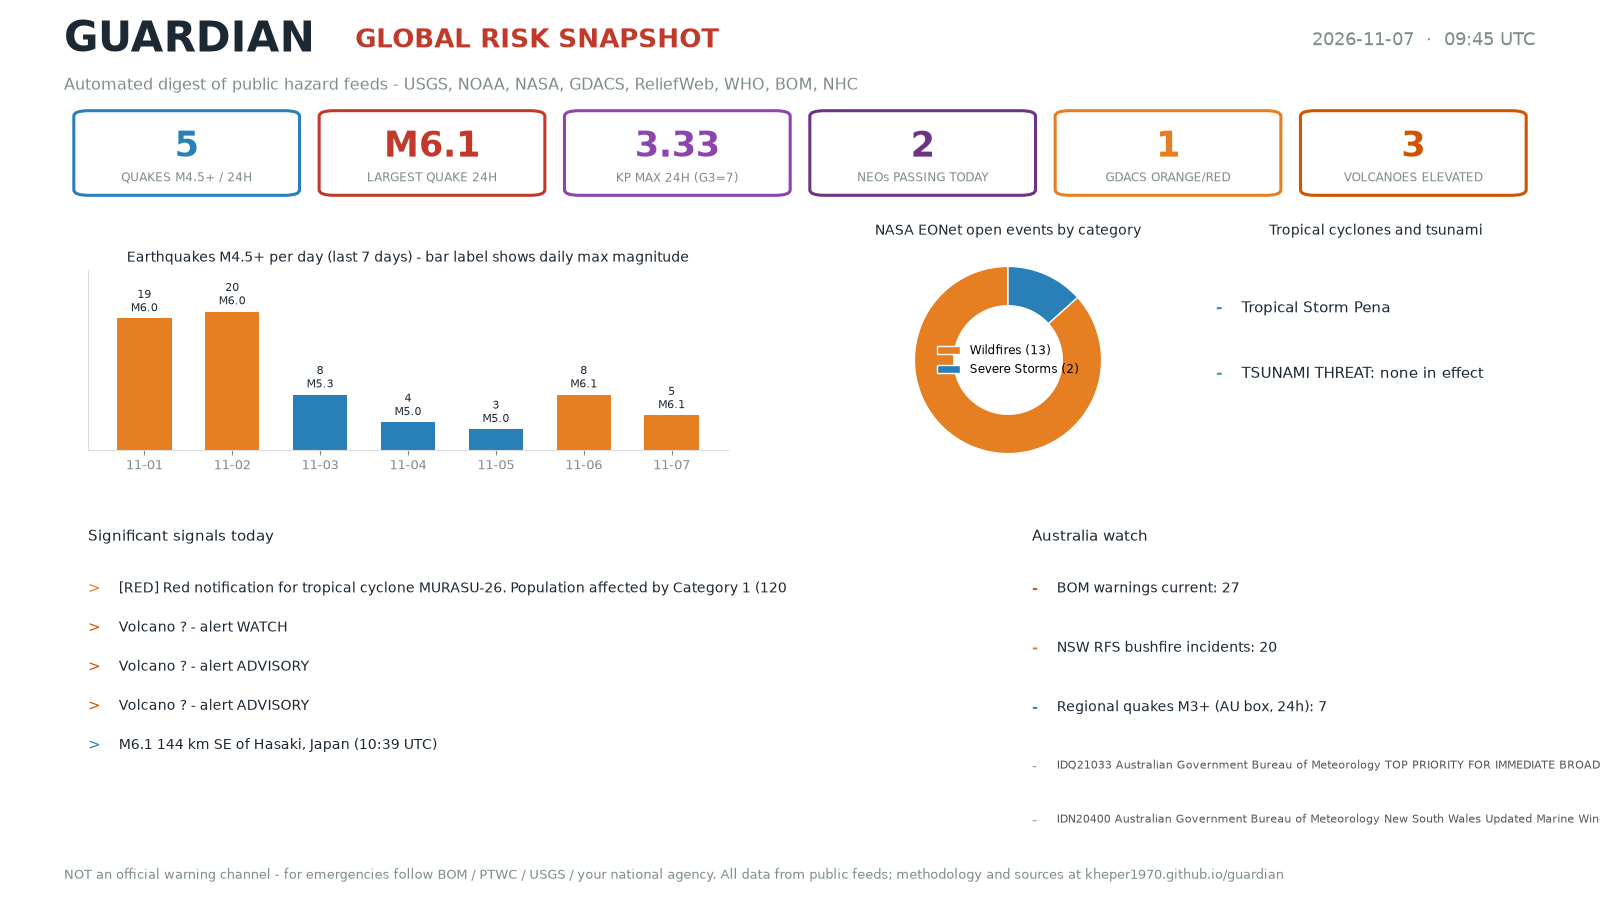
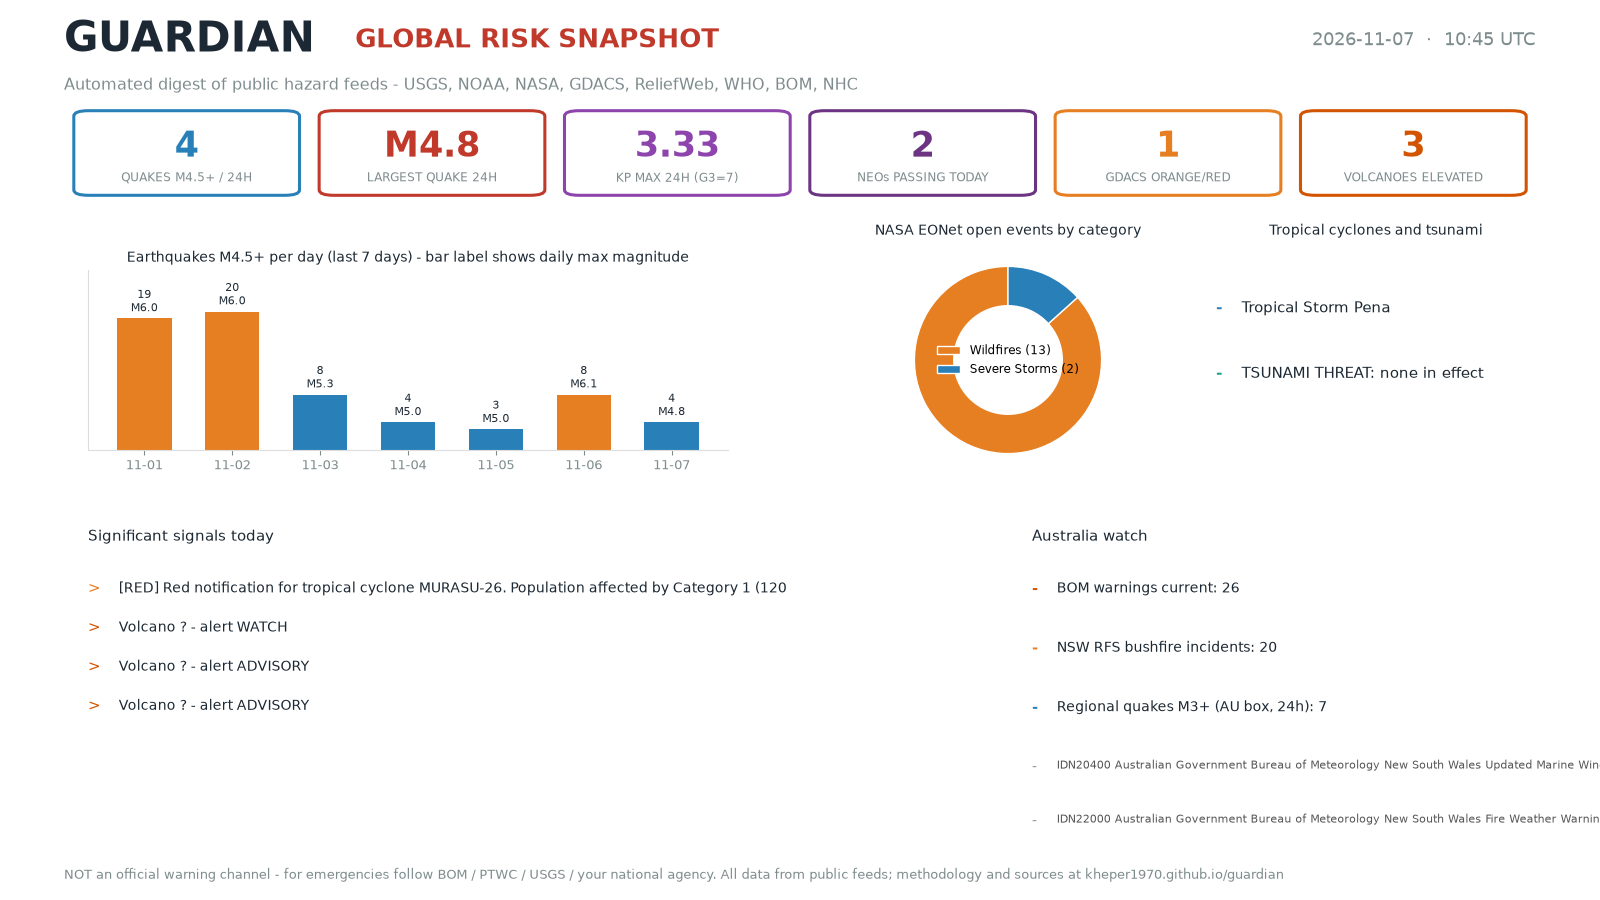
Automated update 2026-11-07T10:50Z

diff --git a/briefing/briefing_2026-11-07.html b/briefing/briefing_2026-11-07.html
@@ -121,12 +121,38 @@ or your national emergency agency.</p>
 <ul>
 <li>Great Sitkin [ORANGE/WATCH] (avo)</li>
 <li>Ahyi Seamount [YELLOW/ADVISORY] (nmi)</li>
-<li>
-<p>Kilauea [YELLOW/ADVISORY] (hvo)</p>
-</li>
-<li>
-<p>GVP weekly report unavailable: HTTP Error 429: Too Many Requests</p>
-</li>
+<li>Kilauea [YELLOW/ADVISORY] (hvo)</li>
+</ul>
+<h2>Volcanoes (Smithsonian GVP weekly, week of 15 October-21 October 2026)</h2>
+<ul>
+<li>27 volcanoes reported active; 3 with new activity</li>
+<li>Krakatau (Indonesia) - New Eruptive Activity <strong>[NEW ACTIVITY]</strong></li>
+<li>Nevados de Chillán (Chile) - New Eruptive Activity <strong>[NEW ACTIVITY]</strong></li>
+<li>Whakaari/White Island (New Zealand) - New Eruptive Activity <strong>[NEW ACTIVITY]</strong></li>
+<li>Ahyi (United States) - Continuing Eruptive Activity</li>
+<li>Aira (Japan) - Continuing Eruptive Activity</li>
+<li>Great Sitkin (United States) - Continuing Eruptive Activity</li>
+<li>Ibu (Indonesia) - Continuing Eruptive Activity</li>
+<li>Kanlaon (Philippines) - Continuing Eruptive Activity</li>
+<li>Karangetang (Indonesia) - Continuing Eruptive Activity</li>
+<li>Kīlauea (United States) - Continuing Eruptive Activity</li>
+<li>Lewotolok (Indonesia) - Continuing Eruptive Activity</li>
+<li>Marapi (Indonesia) - Continuing Eruptive Activity</li>
+<li>Mayon (Philippines) - Continuing Eruptive Activity</li>
+<li>Merapi (Indonesia) - Continuing Eruptive Activity</li>
+<li>Puracé (Colombia) - Continuing Eruptive Activity</li>
+<li>Reventador (Ecuador) - Continuing Eruptive Activity</li>
+<li>Sabancaya (Peru) - Continuing Eruptive Activity</li>
+<li>Sangay (Ecuador) - Continuing Eruptive Activity</li>
+<li>Semeru (Indonesia) - Continuing Eruptive Activity</li>
+<li>Sheveluch (Russia) - Continuing Eruptive Activity</li>
+<li>Sinabung (Indonesia) - Continuing Eruptive Activity</li>
+<li>Suwanosejima (Japan) - Continuing Eruptive Activity</li>
+<li>Taal (Philippines) - Continuing Eruptive Activity</li>
+<li>Telica (Nicaragua) - Continuing Eruptive Activity</li>
+<li>Tofua (Tonga) - Continuing Eruptive Activity</li>
+<li>Tokachidake (Japan) - Continuing Eruptive Activity</li>
+<li>St. Helens (United States) - Other Observations</li>
 </ul>
 <h2>NASA EONet open events (wildfires, storms, volcanoes)</h2>
 <ul>
@@ -172,6 +198,7 @@ or your national emergency agency.</p>
 </ul>
 <h2>Famine watch (UN News + ReliefWeb keywords)</h2>
 <ul>
+<li>[UN News] Children at risk as war zone attacks on water and sanitation more than triple (Thu, 05 Nov 2026)</li>
 <li>[ReliefWeb] Haiti: Violence and displacement in the commune of Kenscoff – Situation Report No. 3 (as of 27 October 2026) (Fri, 06 Nov 2026)</li>
 <li>[ReliefWeb] Haiti: Haïti : Violences et déplacements dans la commune de Kenscoff – Rapport de situation n° 3 (au 27 octobre 2026) (Fri, 06 Nov 2026)</li>
 <li>[ReliefWeb] Somalia: Radio Ergo Weekly Feedback Report, Issued: 6 Nov 2026 (Fri, 06 Nov 2026)</li>
@@ -179,6 +206,8 @@ or your national emergency agency.</p>
 </ul>
 <h2>Armed conflict watch (UN News + ReliefWeb keywords)</h2>
 <ul>
+<li>[UN News] World News in Brief: Children killed in Myanmar strike, new violence flares in Mozambique, an Internet affordability milestone (Tue, 03 Nov 2026)</li>
+<li>[UN News] Ukraine: WFP provides hot meals to Oleshky evacuees as UN pushes to restore power before winter (Mon, 02 Nov 2026)</li>
 <li>[ReliefWeb] Children's Hunger Rising as Southern Lebanon Farms Struggle to Recover (Fri, 06 Nov 2026)</li>
 </ul>
 <h2>Australia watch (ABC News, NSW RFS, USGS AU quakes, GNews AU, health.gov.au)</h2>
@@ -187,18 +216,18 @@ or your national emergency agency.</p>
 <li>Man arrested and charged for alleged harassment of SA Speaker (Sat, 07 Nov 2026)</li>
 <li>Man, 75, dies in Goldfields mine incident (Sat, 07 Nov 2026)</li>
 <li>Live: Parliamentary newcomers Opportunity potential kingmakers in tight NZ election (Sat, 07 Nov 2026)</li>
-<li>Live: Kiwis and Tonga refuse to back down after intense pre-match to semifinal (Sat, 07 Nov 2026)</li>
+<li>Live: Kiwis in control as half-time weather change weaks havoc (Sat, 07 Nov 2026)</li>
 <li>NSW RFS current incidents: 20 (0 at Warning level)</li>
 <li>AU-region quakes (24h): 7, max M4.8</li>
 <li>M3.5 9 km NE of Korumburra, Australia</li>
 <li>M4.7 98 km S of Encounter Bay, Australia</li>
 <li>M4.8 41 km WNW of Kupang, Indonesia</li>
 <li>AU emergency headlines:</li>
+<li>Bushfire emergency warning issued for Western Australia’s Kimberley - Latest news from Azerbaijan (Sat, 07 Nov 2026)</li>
 <li>Australian National Weather Forecast - Nine.com.au (Sat, 07 Nov 2026)</li>
 <li>Heavy Rain Prompts Flash Flood Warning for Parts of New Jersey - News.com.au (Fri, 06 Nov 2026)</li>
 <li>Families urged to prepare early as Fiji enters cyclone season - Fijivillage (Sat, 07 Nov 2026)</li>
 <li>Israel issues flood and dangerous sea warnings — Jerusalem Post - UA.NEWS (Fri, 06 Nov 2026)</li>
-<li>Significant Rainfall Triggers Flooding at Tennessee-Georgia Border - The Australian (Thu, 05 Nov 2026)</li>
 <li>Supply chain resilience: a competitive advantage for defence businesses - William Buck Australia (Sat, 07 Nov 2026)</li>
 <li>Inside the $3 billion battle over defence real estate - ABC News &amp; Headlines – Australian Broadcasting Corporation (Fri, 06 Nov 2026)</li>
 <li>China doesn’t need to dominate the world to threaten Australia’s security - The Strategist | ASPI's analysis and commentary site (Fri, 06 Nov 2026)</li>
@@ -212,7 +241,8 @@ or your national emergency agency.</p>
 </ul>
 <h2>BOM warnings (Bureau of Meteorology Australia)</h2>
 <ul>
-<li>Products scanned: 27, high: 0, medium: 16, errors: 0</li>
+<li>Products scanned: 26, high: 1, medium: 16, errors: 0</li>
+<li>HIGH [IDQ21033] Severe Thunderstorm Warning ()</li>
 <li>MED [IDN20400] New South Wales</li>
 <li>MED [IDN22000] New South Wales</li>
 <li>MED [IDN29000] New South Wales</li>
@@ -245,7 +275,12 @@ or your national emergency agency.</p>
 <li>Mon, 24 Aug 2026 00:00:00 +0000: Liberia: Floods - Aug 2026</li>
 </ul>
 <h2>Alerts</h2>
-<p><strong>VOLCANO ORANGE: Great Sitkin (avo)</strong></p>
+<p><strong>VOLCANO ORANGE: Great Sitkin (avo)</strong>
+<strong>VOLCANO-NEW Krakatau (Indonesia): new eruptive activity (GVP weekly)</strong>
+<strong>VOLCANO-NEW Nevados de Chillán (Chile): new eruptive activity (GVP weekly)</strong>
+<strong>VOLCANO-NEW Whakaari/White Island (New Zealand): new eruptive activity (GVP weekly)</strong>
+<strong>AU EMERGENCY KEYWORD HIT: Bushfire emergency warning issued for Western Australia’s Kimberley - Latest news from Azerbaijan</strong>
+<strong>BOM HIGH: [IDQ21033] Severe Thunderstorm Warning</strong></p>
 </div></main>
 <footer><div class="wrap">
 Generated automatically by the Guardian pipeline (<a href="https://github.com/kheper1970/guardian">open source on GitHub</a>).

diff --git a/index.html b/index.html
@@ -96,8 +96,8 @@ The setting is reviewed annually (each January) by its Science and Security Boar
 <a href="https://thebulletin.org/doomsday-clock/">thebulletin.org</a>.
 Clock artwork © Bulletin of the Atomic Scientists; used with attribution.</p>
 </div></div></div>
-<div class="statgrid"><div class="stat"><div class="n">5</div><div class="l">quakes M4.5+ / 24h</div></div><div class="stat"><div class="n">M6.1</div><div class="l">largest quake</div></div><div class="stat"><div class="n">3.33</div><div class="l">Kp max 24h</div></div><div class="stat"><div class="n">2</div><div class="l">NEOs today</div></div><div class="stat"><div class="n">1</div><div class="l">GDACS orange/red</div></div><div class="stat"><div class="n">3</div><div class="l">volcanoes elevated</div></div></div>
-<p style="color:#666666;font-size:.9rem">Snapshot taken 2026-11-07T09:45:01.440447+00:00 UTC.
+<div class="statgrid"><div class="stat"><div class="n">4</div><div class="l">quakes M4.5+ / 24h</div></div><div class="stat"><div class="n">M4.8</div><div class="l">largest quake</div></div><div class="stat"><div class="n">3.33</div><div class="l">Kp max 24h</div></div><div class="stat"><div class="n">2</div><div class="l">NEOs today</div></div><div class="stat"><div class="n">1</div><div class="l">GDACS orange/red</div></div><div class="stat"><div class="n">3</div><div class="l">volcanoes elevated</div></div></div>
+<p style="color:#666666;font-size:.9rem">Snapshot taken 2026-11-07T10:45:01.634882+00:00 UTC.
 Open the <a href="briefing/briefing_2026-11-07.html">full briefing</a> for details and sources.</p>
 </div>
 <div class="card"><h2 style="margin-top:0">Daily infographic</h2>

diff --git a/briefing/briefing_2026-11-07.md b/briefing/briefing_2026-11-07.md
@@ -43,7 +43,35 @@ Count: 2
 - Ahyi Seamount [YELLOW/ADVISORY] (nmi)
 - Kilauea [YELLOW/ADVISORY] (hvo)
 
-- GVP weekly report unavailable: HTTP Error 429: Too Many Requests
+## Volcanoes (Smithsonian GVP weekly, week of 15 October-21 October 2026)
+- 27 volcanoes reported active; 3 with new activity
+- Krakatau (Indonesia) - New Eruptive Activity **[NEW ACTIVITY]**
+- Nevados de Chillán (Chile) - New Eruptive Activity **[NEW ACTIVITY]**
+- Whakaari/White Island (New Zealand) - New Eruptive Activity **[NEW ACTIVITY]**
+- Ahyi (United States) - Continuing Eruptive Activity
+- Aira (Japan) - Continuing Eruptive Activity
+- Great Sitkin (United States) - Continuing Eruptive Activity
+- Ibu (Indonesia) - Continuing Eruptive Activity
+- Kanlaon (Philippines) - Continuing Eruptive Activity
+- Karangetang (Indonesia) - Continuing Eruptive Activity
+- Kīlauea (United States) - Continuing Eruptive Activity
+- Lewotolok (Indonesia) - Continuing Eruptive Activity
+- Marapi (Indonesia) - Continuing Eruptive Activity
+- Mayon (Philippines) - Continuing Eruptive Activity
+- Merapi (Indonesia) - Continuing Eruptive Activity
+- Puracé (Colombia) - Continuing Eruptive Activity
+- Reventador (Ecuador) - Continuing Eruptive Activity
+- Sabancaya (Peru) - Continuing Eruptive Activity
+- Sangay (Ecuador) - Continuing Eruptive Activity
+- Semeru (Indonesia) - Continuing Eruptive Activity
+- Sheveluch (Russia) - Continuing Eruptive Activity
+- Sinabung (Indonesia) - Continuing Eruptive Activity
+- Suwanosejima (Japan) - Continuing Eruptive Activity
+- Taal (Philippines) - Continuing Eruptive Activity
+- Telica (Nicaragua) - Continuing Eruptive Activity
+- Tofua (Tonga) - Continuing Eruptive Activity
+- Tokachidake (Japan) - Continuing Eruptive Activity
+- St. Helens (United States) - Other Observations
 
 ## NASA EONet open events (wildfires, storms, volcanoes)
 - Open events total: 24; tracked categories: 15
@@ -84,12 +112,15 @@ Count: 2
 - Mali - Key Message Update: Food insecurity deteriorates to Emergency (IPC Phase 4) in Kidal amid severe conflict, May - September 2026 - ReliefWeb (Thu, 11 Jun 2026)
 
 ## Famine watch (UN News + ReliefWeb keywords)
+- [UN News] Children at risk as war zone attacks on water and sanitation more than triple (Thu, 05 Nov 2026)
 - [ReliefWeb] Haiti: Violence and displacement in the commune of Kenscoff – Situation Report No. 3 (as of 27 October 2026) (Fri, 06 Nov 2026)
 - [ReliefWeb] Haiti: Haïti : Violences et déplacements dans la commune de Kenscoff – Rapport de situation n° 3 (au 27 octobre 2026) (Fri, 06 Nov 2026)
 - [ReliefWeb] Somalia: Radio Ergo Weekly Feedback Report, Issued: 6 Nov 2026 (Fri, 06 Nov 2026)
 - [ReliefWeb] Children's Hunger Rising as Southern Lebanon Farms Struggle to Recover (Fri, 06 Nov 2026)
 
 ## Armed conflict watch (UN News + ReliefWeb keywords)
+- [UN News] World News in Brief: Children killed in Myanmar strike, new violence flares in Mozambique, an Internet affordability milestone (Tue, 03 Nov 2026)
+- [UN News] Ukraine: WFP provides hot meals to Oleshky evacuees as UN pushes to restore power before winter (Mon, 02 Nov 2026)
 - [ReliefWeb] Children's Hunger Rising as Southern Lebanon Farms Struggle to Recover (Fri, 06 Nov 2026)
 
 ## Australia watch (ABC News, NSW RFS, USGS AU quakes, GNews AU, health.gov.au)
@@ -97,18 +128,18 @@ Count: 2
 - Man arrested and charged for alleged harassment of SA Speaker (Sat, 07 Nov 2026)
 - Man, 75, dies in Goldfields mine incident (Sat, 07 Nov 2026)
 - Live: Parliamentary newcomers Opportunity potential kingmakers in tight NZ election (Sat, 07 Nov 2026)
-- Live: Kiwis and Tonga refuse to back down after intense pre-match to semifinal (Sat, 07 Nov 2026)
+- Live: Kiwis in control as half-time weather change weaks havoc (Sat, 07 Nov 2026)
 - NSW RFS current incidents: 20 (0 at Warning level)
 - AU-region quakes (24h): 7, max M4.8
   - M3.5 9 km NE of Korumburra, Australia
   - M4.7 98 km S of Encounter Bay, Australia
   - M4.8 41 km WNW of Kupang, Indonesia
 - AU emergency headlines:
+  - Bushfire emergency warning issued for Western Australia’s Kimberley - Latest news from Azerbaijan (Sat, 07 Nov 2026)
   - Australian National Weather Forecast - Nine.com.au (Sat, 07 Nov 2026)
   - Heavy Rain Prompts Flash Flood Warning for Parts of New Jersey - News.com.au (Fri, 06 Nov 2026)
   - Families urged to prepare early as Fiji enters cyclone season - Fijivillage (Sat, 07 Nov 2026)
   - Israel issues flood and dangerous sea warnings — Jerusalem Post - UA.NEWS (Fri, 06 Nov 2026)
-  - Significant Rainfall Triggers Flooding at Tennessee-Georgia Border - The Australian (Thu, 05 Nov 2026)
   - Supply chain resilience: a competitive advantage for defence businesses - William Buck Australia (Sat, 07 Nov 2026)
   - Inside the $3 billion battle over defence real estate - ABC News &amp; Headlines – Australian Broadcasting Corporation (Fri, 06 Nov 2026)
   - China doesn’t need to dominate the world to threaten Australia’s security - The Strategist | ASPI's analysis and commentary site (Fri, 06 Nov 2026)
@@ -121,7 +152,8 @@ Count: 2
   - Interim Commissioner Update – October 2026
 
 ## BOM warnings (Bureau of Meteorology Australia)
-- Products scanned: 27, high: 0, medium: 16, errors: 0
+- Products scanned: 26, high: 1, medium: 16, errors: 0
+  - HIGH [IDQ21033] Severe Thunderstorm Warning ()
   - MED [IDN20400] New South Wales
   - MED [IDN22000] New South Wales
   - MED [IDN29000] New South Wales
@@ -153,3 +185,8 @@ Count: 2
 
 ## Alerts
 **VOLCANO ORANGE: Great Sitkin (avo)**
+**VOLCANO-NEW Krakatau (Indonesia): new eruptive activity (GVP weekly)**
+**VOLCANO-NEW Nevados de Chillán (Chile): new eruptive activity (GVP weekly)**
+**VOLCANO-NEW Whakaari/White Island (New Zealand): new eruptive activity (GVP weekly)**
+**AU EMERGENCY KEYWORD HIT: Bushfire emergency warning issued for Western Australia’s Kimberley - Latest news from Azerbaijan**
+**BOM HIGH: [IDQ21033] Severe Thunderstorm Warning**
